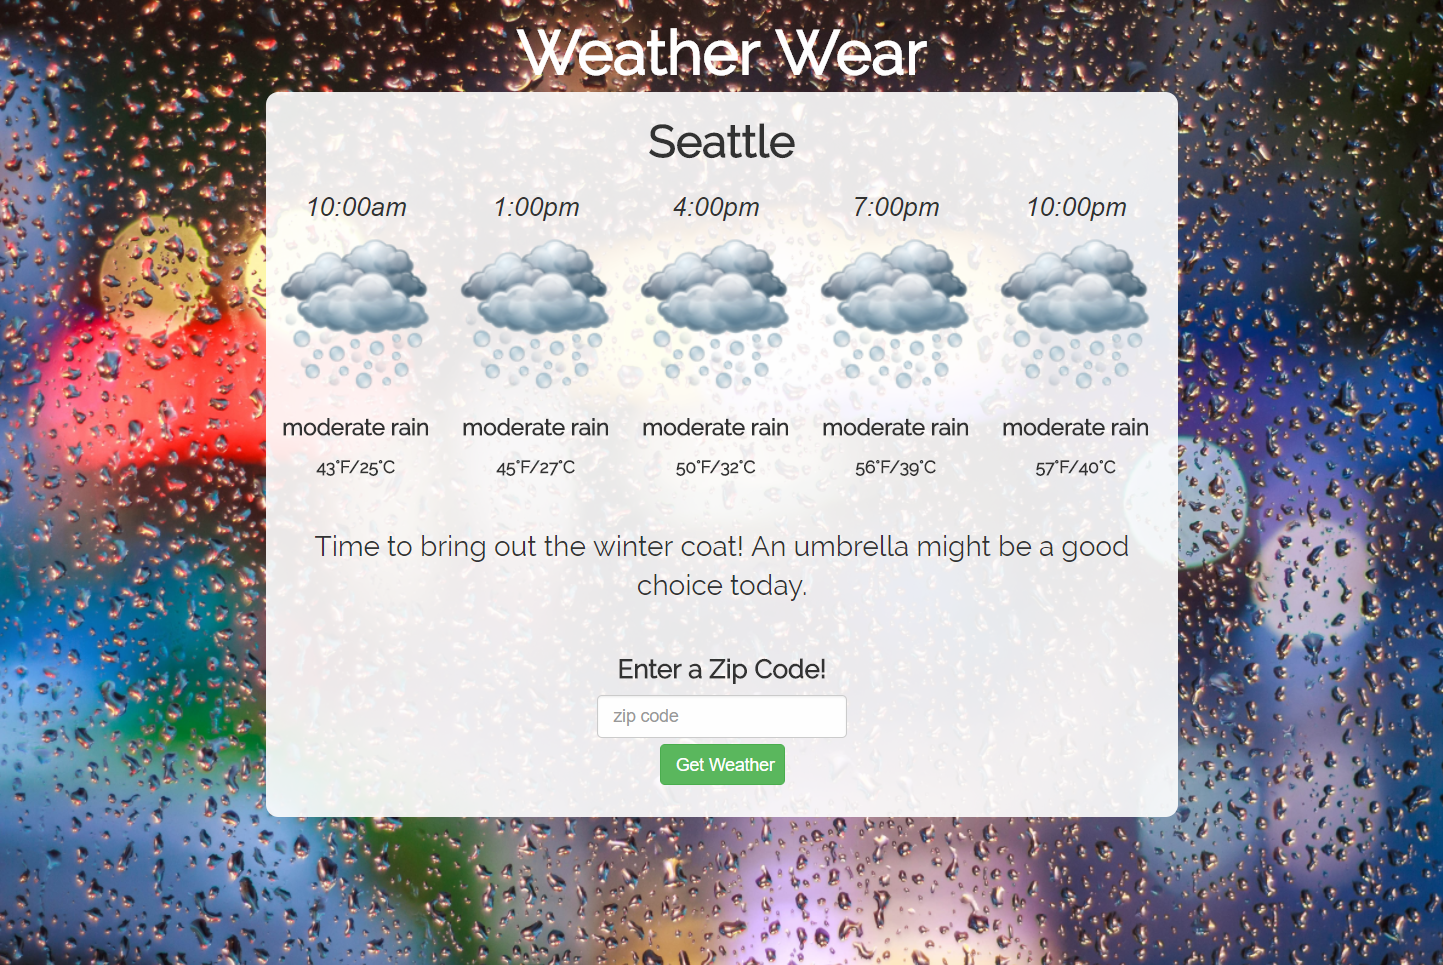
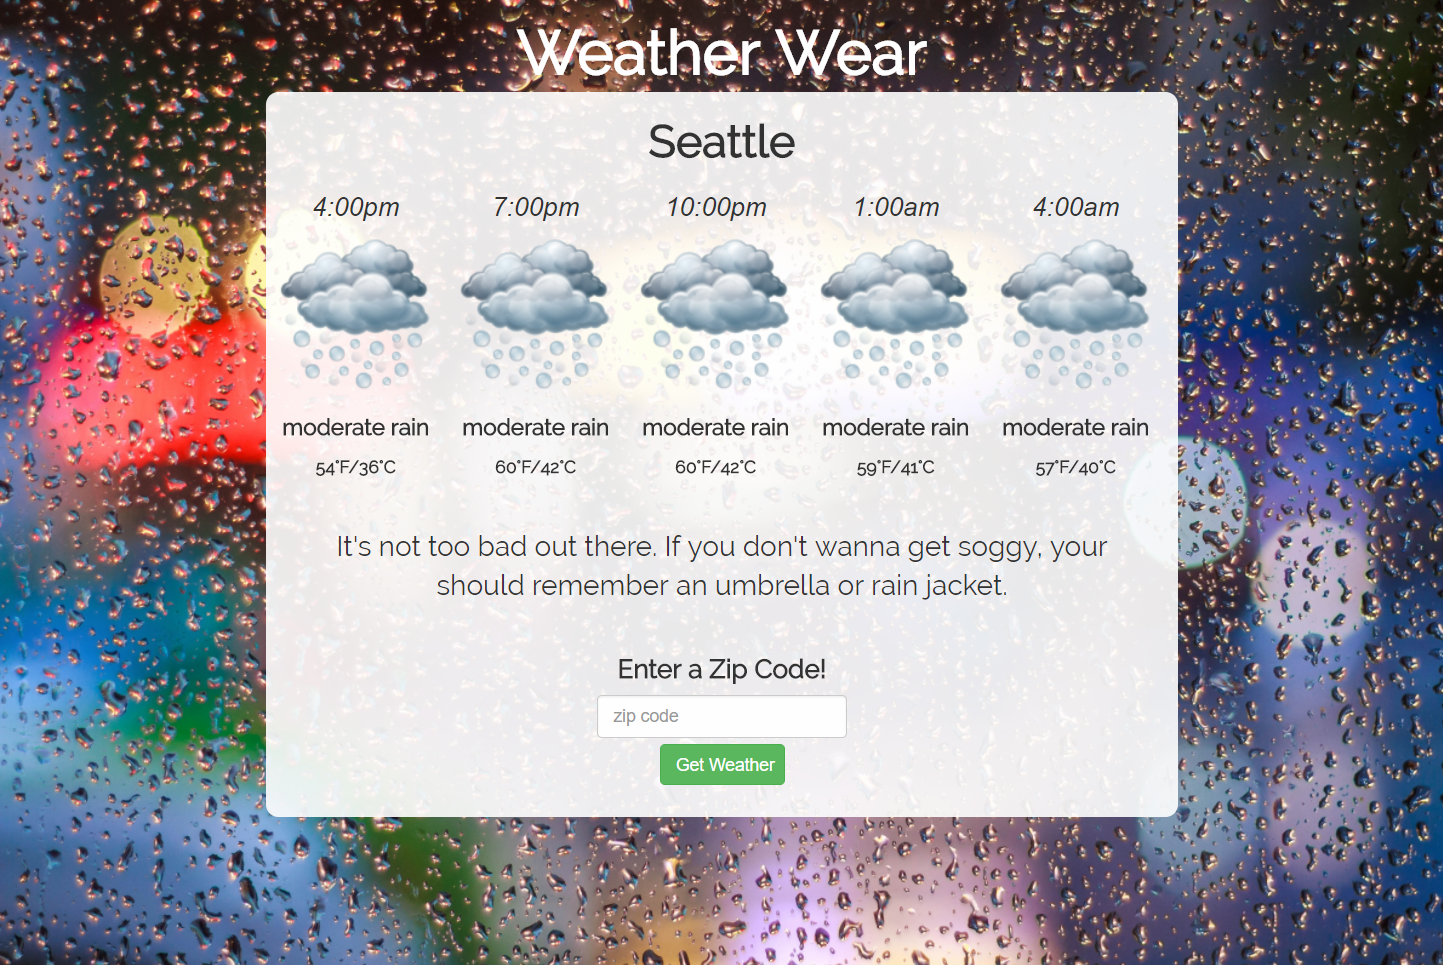
tweaked styling, updated comments

diff --git a/src/js/App.js b/src/js/App.js
@@ -64,45 +64,41 @@ class App extends React.Component {
 
     // Temp based statements
     if(temp <= 32) {
-      const options = ["Burrrr! It be chilly out there. Remember your winter parka. ", "It's crazy cold out there. Don't forget your hat, scarf, and gloves. You don't wanna turn into a human popsicle out there! "]
+      const options = ["Burrrr! It be chilly out there. Remember your winter coat if you don't want to freeze. A hat and scarf would be a good idea too.  ", "Don't forget your hat, scarf, and gloves. You don't wanna turn into a human popsicle out there! "]
       newAdvice += options[rand1];
     }
 
     else if(temp > 32 && temp < 45) {
-      const options = ["A fuzzy hat and scarf would probably be nice. ", "Time to bring out the winter coat! ", "It be chilly out there! "]
+      const options = ["A fuzzy hat and scarf would probably be nice. ", "It's cold out today, so remember a warm jacket. "]
       newAdvice += options[rand1];
     }
 
     else if(temp >= 45 && temp < 65) {
-      const options = ["A light jacked would be a good choice. ", "It's not too bad out there. "]
+      const options = ["A light jacket would be a good choice. ", "It's not too bad out there. "]
       newAdvice += options[rand1];
     }
 
     else if(temp >= 65 && temp < 85) {
-      const options = ["It's pretty hot out there, remember to wear something light and airy. ", "Remember the sunscreen! It's warm out there.", "Ahhhh, nice and toasty. No need for a jacket, it's plenty warm out there. ", "Time to break out your favorite pair of shorts! Booyah! "]
+      const options = ["It's pretty hot out there, remember to wear something light and airy. ", "Ahhhh, nice and toasty. No need for a jacket, it's plenty warm out there. "]
       newAdvice += options[rand1];
     }
 
     else if(temp > 85) {
-      const options = ["Dang, it be hot out there! You should head to the beach or something. ", "It be crazy hot out there, remember to stay hydrated! "]
+      const options = ["It's hot out there! Something light and airy would be best to help you stay cool. And remember to stay hydrated!",]
       newAdvice += options[rand1];
     }
 
     // Weather based statements
     if(weather === "Rain") {
-      const options = ["If you don't wanna become a soggy pancake, your should remember your rain jacket. ", "An umbrella might be a good choice today. ", "Yup, that's definitely rain out there. Prepare to get wet! "]
+      const options = ["If you don't wanna get soggy, your should remember an umbrella or rain jacket. ", "It's pretty wet out there, you might want an umbrella. ", "Yup, that's definitely rain out there. Prepare to get wet! "]
       newAdvice += options[rand2];
     }
 
     else if(weather === "Clear") {
-      const options = ["Ahhhh, nice and sunny out there! Go soak in some of those rays. ", "A beautiful clear day out there. ", "'I'm walking on sunshine, and don't it feel good!' ", "Those blue skies sure are shining on me! "]
+      const options = ["Go soak in some of those rays. ", "Enjoy the blue skies! ", "It'd be a great day to enjoy some time outdoors. "]
       newAdvice += options[rand2];
     }
 
-    if(weather === "Clouds") {
-      const options = ["The sky is filled with clouds out there. ", "Not much blue left in the sky today. ", "There's white fluffy stuff up in the sky today. "]
-      newAdvice += options[rand2];
-    }
 
     console.log(newAdvice);
     return newAdvice;

diff --git a/src/scss/customizations.scss b/src/scss/customizations.scss
@@ -15,6 +15,3 @@
 // $brand-info:            blue !default;
 // $brand-warning:         orange !default;
 // $brand-danger:          red !default;
-@import url('https://fonts.googleapis.com/css?family=Raleway');
-
-$title-font: 'Raleway', sans-serif;

diff --git a/README.md b/README.md
@@ -1,6 +1,6 @@
-# Weather Wear
+# Weather Watch
 
-Suggestions for what to wear based off the current weather forecast. Made with React.
+Weather forecast for the day with comments based off the current forecast. Made with React.
 
 __To-Do:__ 
 * ~~search API via zip code from input~~
@@ -8,15 +8,16 @@ __To-Do:__
 * ~~add weather image to forecast~~
 * ~~render forecast~~
 * ~~style forecast~~
-* display what to wear
-* styling
+* ~~display clothing suggestions~~
+* ~~styling~~
 * ~~put API Key in hidden file~~
-
-![Weather Wear](https://github.com/Ziyal/Weather-Wear/blob/master/screenshots/1.png "Weather Wear")
-![Weather Wear](https://github.com/Ziyal/Weather-Wear/blob/master/screenshots/2.png "Weather Wear")
-![Weather Wear](https://github.com/Ziyal/Weather-Wear/blob/master/screenshots/3.png "Weather Wear")
 
 __Built With:__
 * React
 * SASS
 * Webpack
+
+![Weather Wear](https://github.com/Ziyal/Weather-Watch/blob/master/screenshots/1.png "Weather Wear")
+![Weather Wear](https://github.com/Ziyal/Weather-Watch/blob/master/screenshots/2.png "Weather Wear")
+![Weather Wear](https://github.com/Ziyal/Weather-Watch/blob/master/screenshots/3.png "Weather Wear")
+
